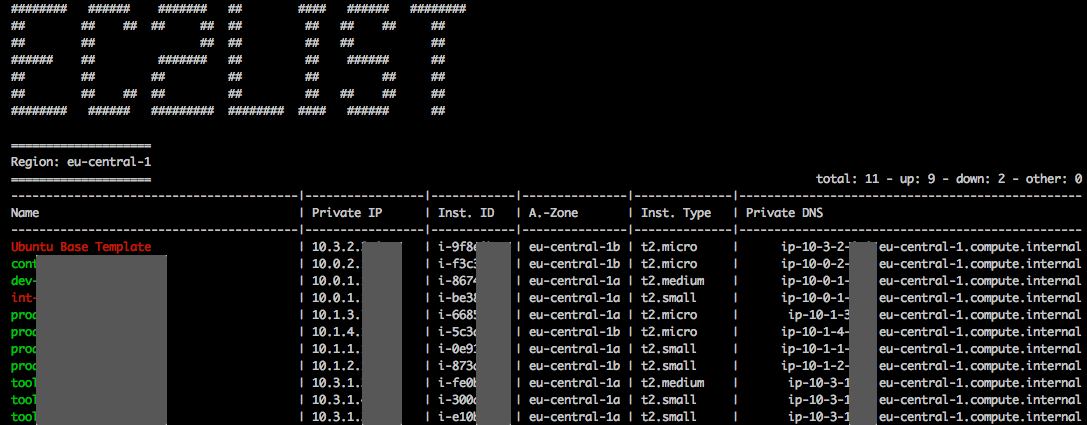
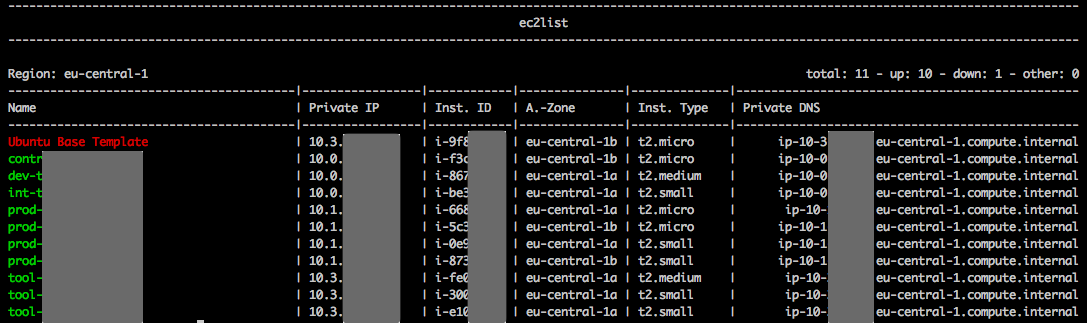
Readme Update and new screenshot

Changed region(s): [[0.0, 0.0, 1.0, 1.0], [0.7286, 0.2167, 1.0, 0.2477], [0.1822, 0.9907, 0.2125, 1.0]]

diff --git a/README.md b/README.md
@@ -33,6 +33,11 @@ List instances from the regions eu-central-1 and eu-west-1
 
     ec2list --region eu-central-1 eu-west-1
 
+List instances in multiple regions via wildcard
+
+    ec2list --region eu*
+
+
 List instances from all regions
 
     ec2list --region all
@@ -40,7 +45,11 @@ List instances from all regions
 List instances with minimal output
 
     ec2list --no-head --no-banner --clear-screen
+    ec2list -nh -nb -cls
+    
+List all instances at once, not per region
 
+    ec2list --region eu* --total
 
 
 Configuration
